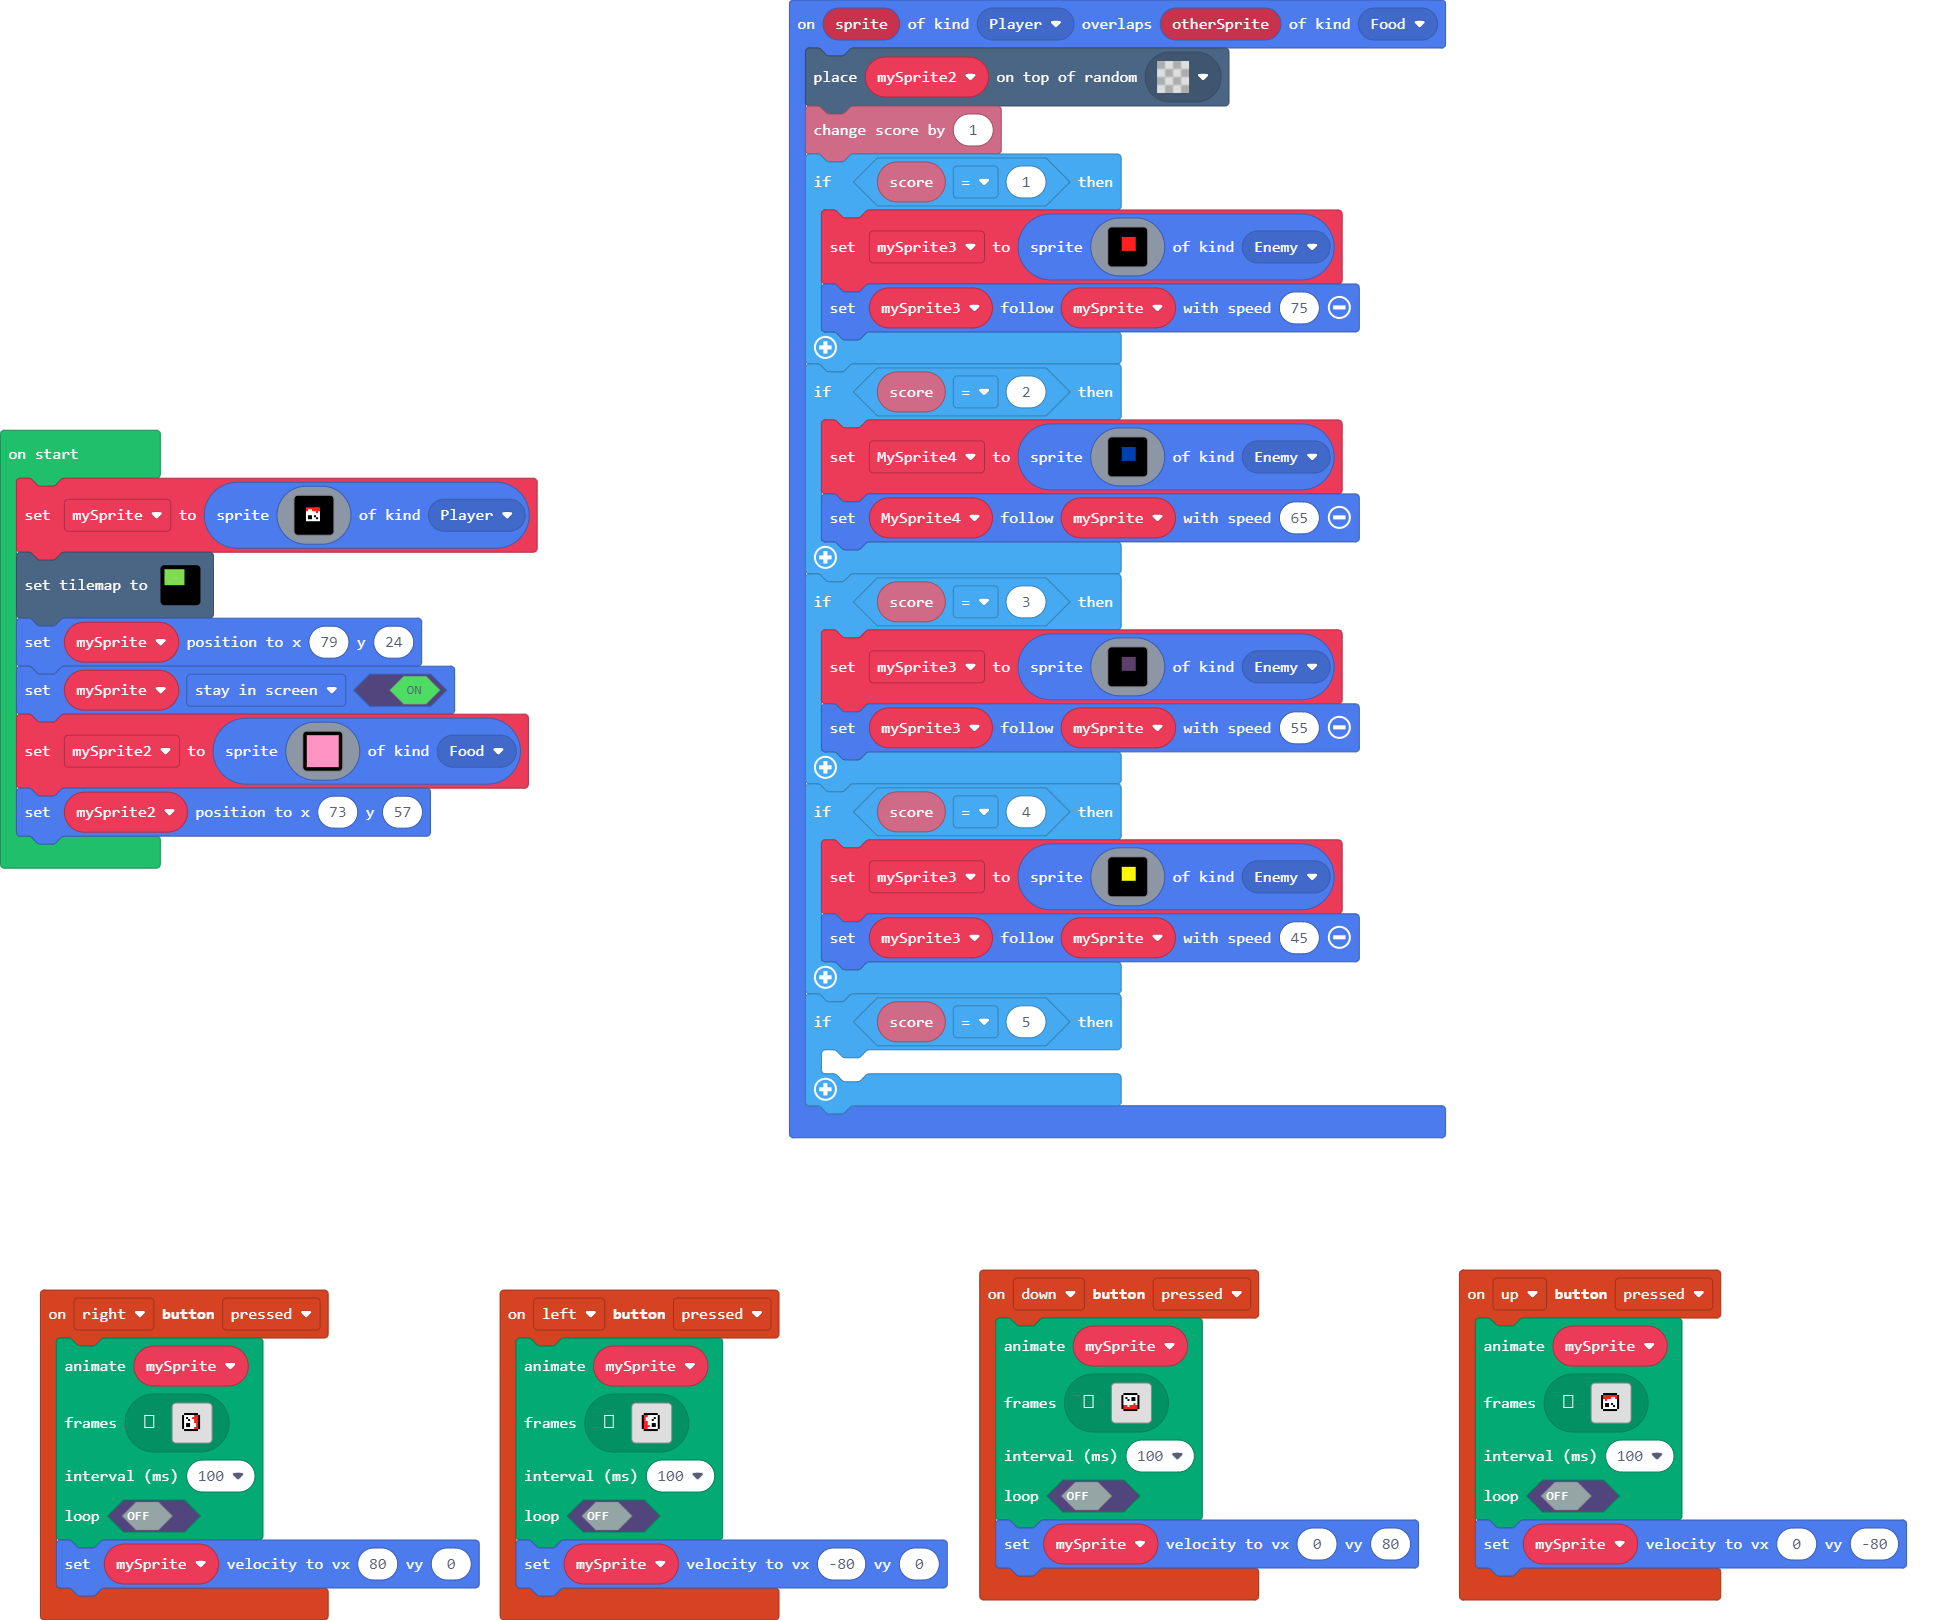
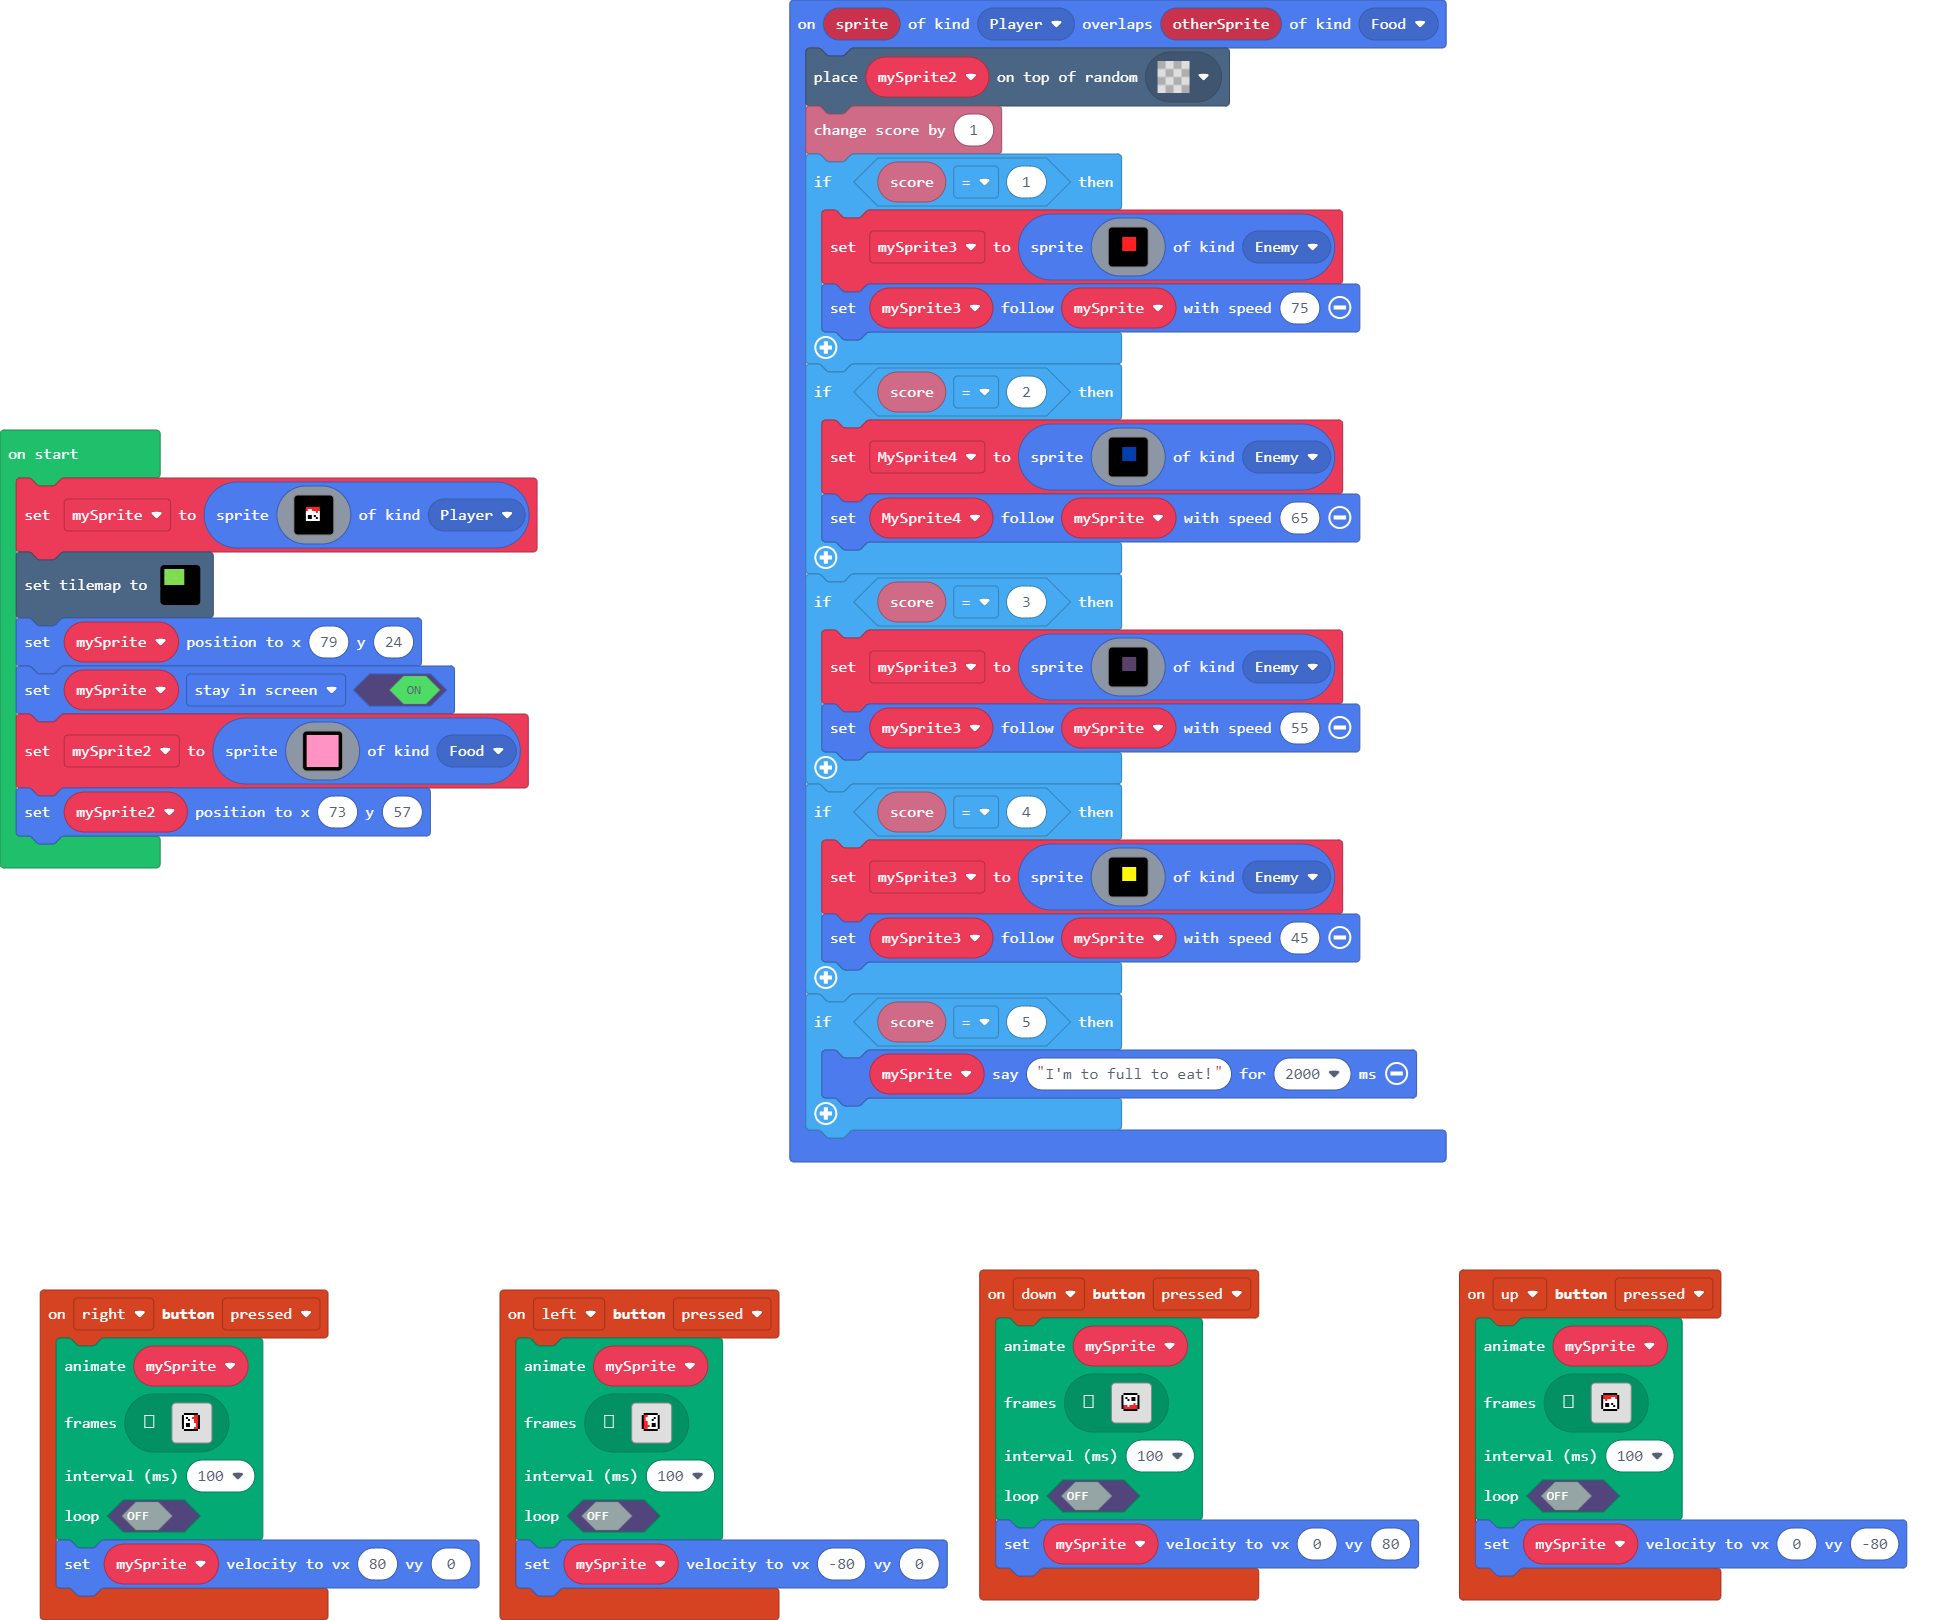
Update main.blocks, main.ts

diff --git a/main.ts b/main.ts
@@ -178,7 +178,7 @@ sprites.onOverlap(SpriteKind.Player, SpriteKind.Food, function (sprite, otherSpr
         mySprite3.follow(mySprite, 45)
     }
     if (info.score() == 5) {
-    	
+        mySprite.say("I'm to full to eat!", 2000)
     }
 })
 controller.right.onEvent(ControllerButtonEvent.Pressed, function () {
